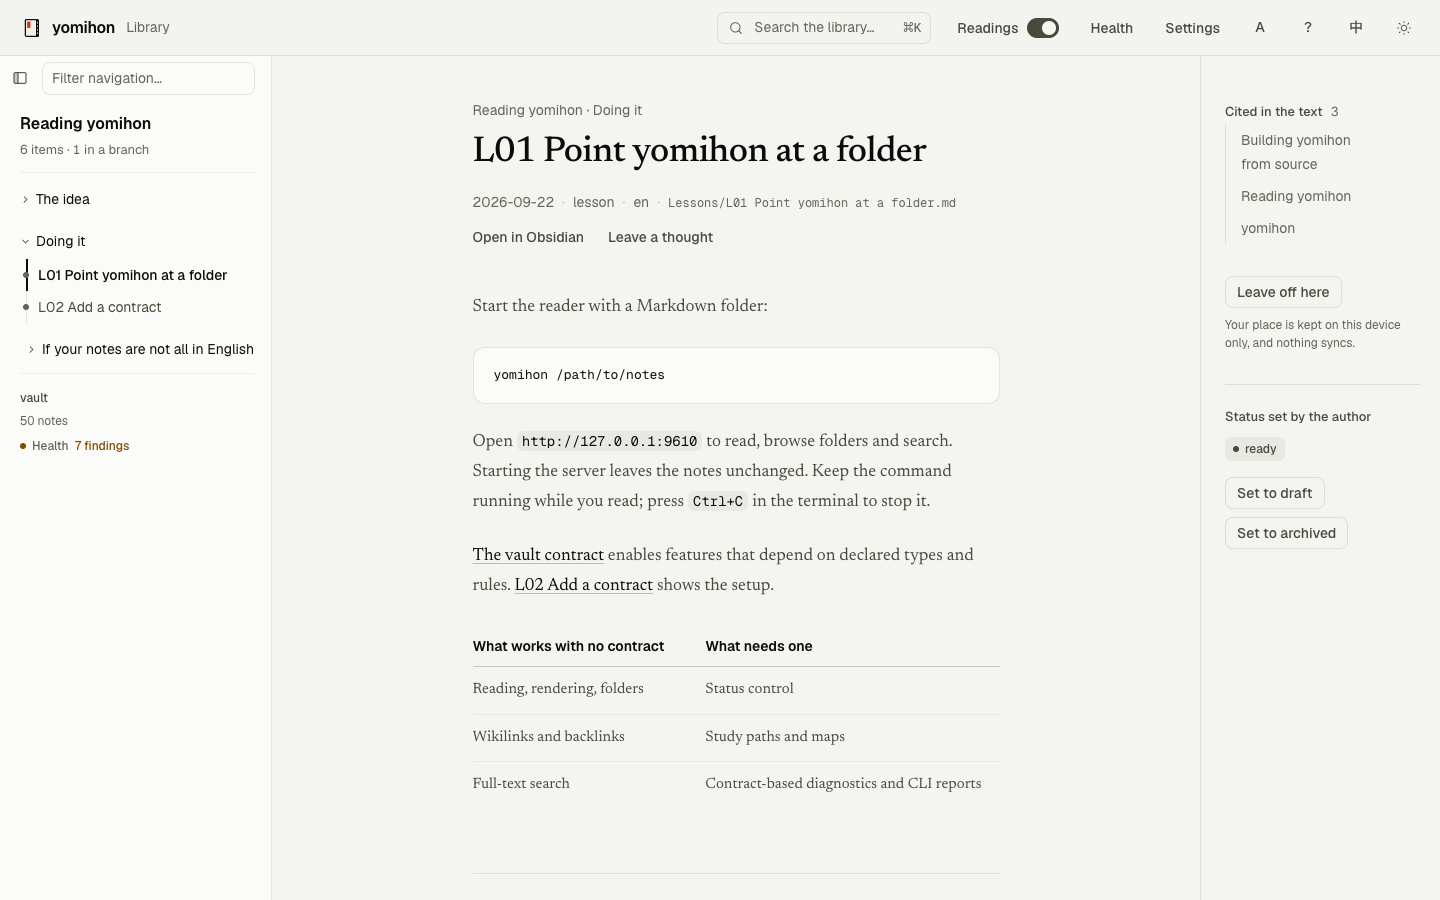
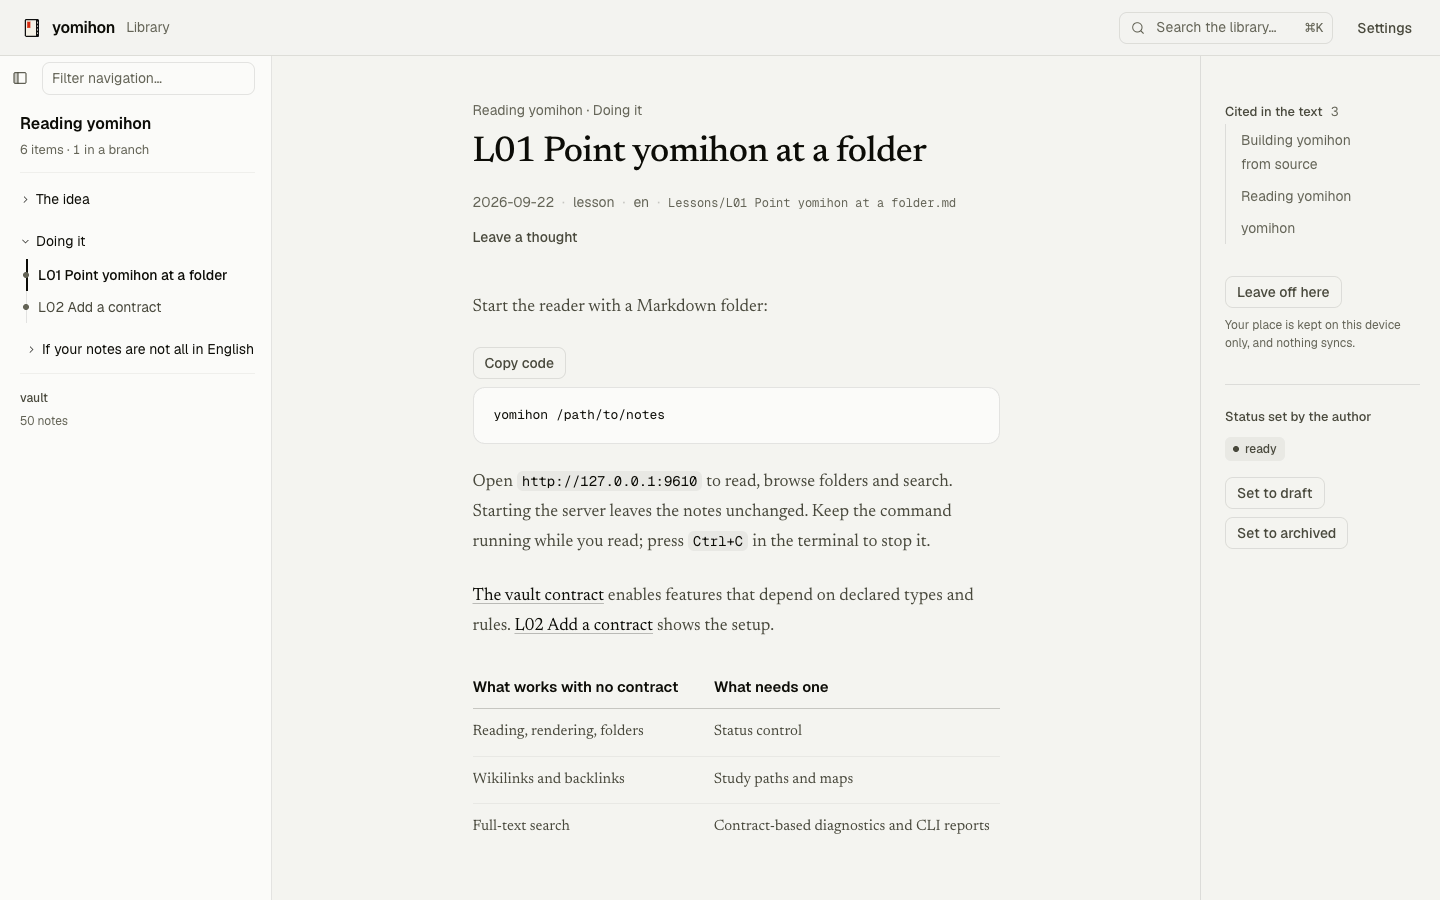
docs: prepare the v0.3.0 release notes, install wording and pictures
- `.github/release-notes.md` is the tracked text for the release page: what the release is, what is new since the last one, and each platform's limits (on Windows yomihon reads a vault but does not change a note's status). It is edited for each release, not appended to.
- After the release is published, the checklist has the maintainer put `.github/release-notes.md` above GitHub's generated list with `gh release edit`.
- The pre-tag checklist in `CONTRIBUTING.md` now asks that the platforms the READMEs name match the assets `release.yml` builds, and that the release notes state each platform's limits.
- Both READMEs say what `@latest` and `@main` install.
- The README pictures are regenerated with `make screenshots`. The English alt text now says the right rail shows the notes the lesson cites, which is what the picture shows.

diff --git a/CONTRIBUTING.md b/CONTRIBUTING.md
@@ -352,9 +352,9 @@ Check that:
 - the version, `README.md` and `README.zh-TW.md` agree, and both READMEs give
   the same install path, linking the latest-release page rather than one
   version's asset;
-- the platform assets `release.yml` builds match what the READMEs promise, and
-  the Windows limit (status changes refused) is still stated where the install
-  choice is;
+- the platforms the READMEs name match the assets `release.yml` builds, and
+  `.github/release-notes.md` states each platform's limits and lists what is
+  new since the last release: edit it for this release rather than append;
 - `go install github.com/koopa0/yomihon/cmd/yomihon@<the commit>` in a
   disposable `GOBIN`, `GOMODCACHE` and `GOCACHE` installs the module you expect,
   without touching your own binary;
@@ -362,7 +362,15 @@ Check that:
 - every behaviour a screenshot shows still happens at that commit, and the
   images were regenerated with `make screenshots`.
 
-After the tag publishes, download one asset and check it against `SHA256SUMS`
+When the release is published, put `.github/release-notes.md` above GitHub's
+generated list:
+
+```sh
+gh release view <tag> --json body -q .body > /tmp/generated.md
+cat .github/release-notes.md /tmp/generated.md | gh release edit <tag> --notes-file -
+```
+
+Then download one asset and check it against `SHA256SUMS`
 and `go version -m`, and confirm `go list -m github.com/koopa0/yomihon@latest`
 reports the new version.
 

diff --git a/.github/release-notes.md b/.github/release-notes.md
@@ -1,0 +1,20 @@
+<!-- Goes above GitHub's generated notes when a release is published (see CONTRIBUTING). Edit it for each release; do not append to it. -->
+
+Since v0.2.0, yomihon has become a reading-first interface: the reading room has a calmer look, pages change without flashing, and the header carries only what reading needs.
+
+## What is new
+
+- Study paths open like a book's cover and count their parts in the noun the author chose. A side branch has a way back and on.
+- Reports begin with the question they answer.
+- A note shows only the statuses a reader needs to notice, and status changes are refused on read-only notes.
+- "Leave off here" keeps your place on this device, and the home page links back to it.
+- Code can be copied from every reading surface.
+- Search indexes frontmatter tags, and a Chinese, Japanese or English match lands in the reading body.
+- Wikilinks resolve from path suffixes and nested heading paths.
+- `scan.exclude_dirs` keeps matching directories out of the scan.
+- A frontmatter merge key, or a note that fails to parse, no longer stops the server.
+- Release binaries are built with `-trimpath` and stripped of symbols, so they are smaller.
+
+## Platform limits
+
+- On Windows, yomihon reads a vault but does not change a note's status.

diff --git a/README.md b/README.md
@@ -8,7 +8,7 @@ English | [繁體中文](README.zh-TW.md)
 
 **yomihon turns the Markdown you have already organised into a book that reads well.**
 
-[![A lesson in a study path: the course on the left with the current lesson marked, the lesson in the centre, and on the right the notes that cite it and a button to leave off here](.github/media/reading-en.png)](.github/media/reading-en.png)
+[![A lesson in a study path: the course on the left with the current lesson marked, the lesson in the centre, and on the right the notes it cites and a button to leave off here](.github/media/reading-en.png)](.github/media/reading-en.png)
 
 A study path is a course, with its parts and the lesson you are on. Search, backlinks and reports are built in. yomihon runs on your machine, makes no network requests and never edits your text.
 
@@ -23,6 +23,8 @@ A study path is a course, with its parts and the lesson you are on. Search, back
 ```sh
 go install github.com/koopa0/yomihon/cmd/yomihon@latest
 ```
+
+`@latest` installs the latest release; `@main` installs the development head.
 
 yomihon runs on macOS, Linux and Windows. The example library comes with the source, not the binary. Take it from the release's source archive or clone this repository.
 

diff --git a/README.zh-TW.md b/README.zh-TW.md
@@ -24,6 +24,8 @@
 go install github.com/koopa0/yomihon/cmd/yomihon@latest
 ```
 
+`@latest` 安裝最新的發行版，`@main` 安裝開發中的最新版本。
+
 yomihon 可在 macOS、Linux 與 Windows 上執行。範例知識庫附在原始碼裡，不在執行檔中。請從該版本的原始碼壓縮檔取得，或 clone 本 repo。
 
 ## 使用
